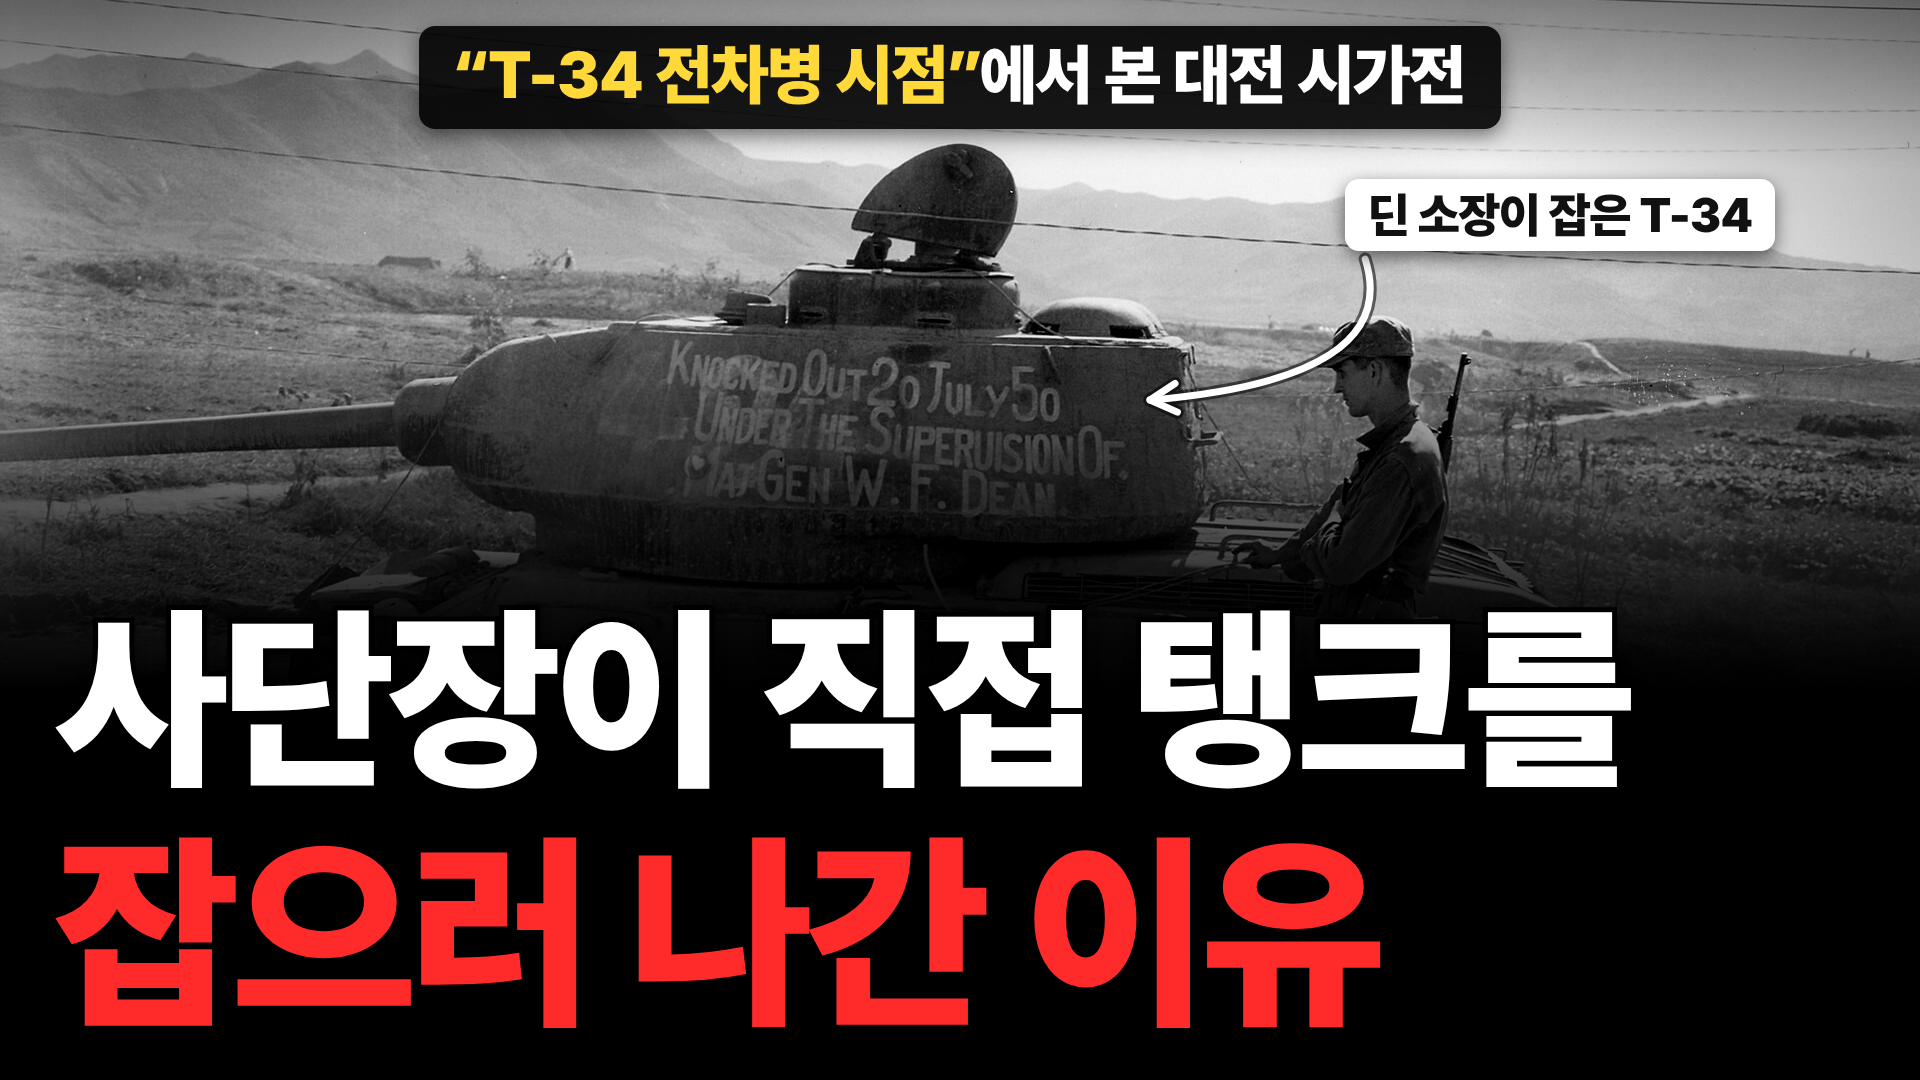
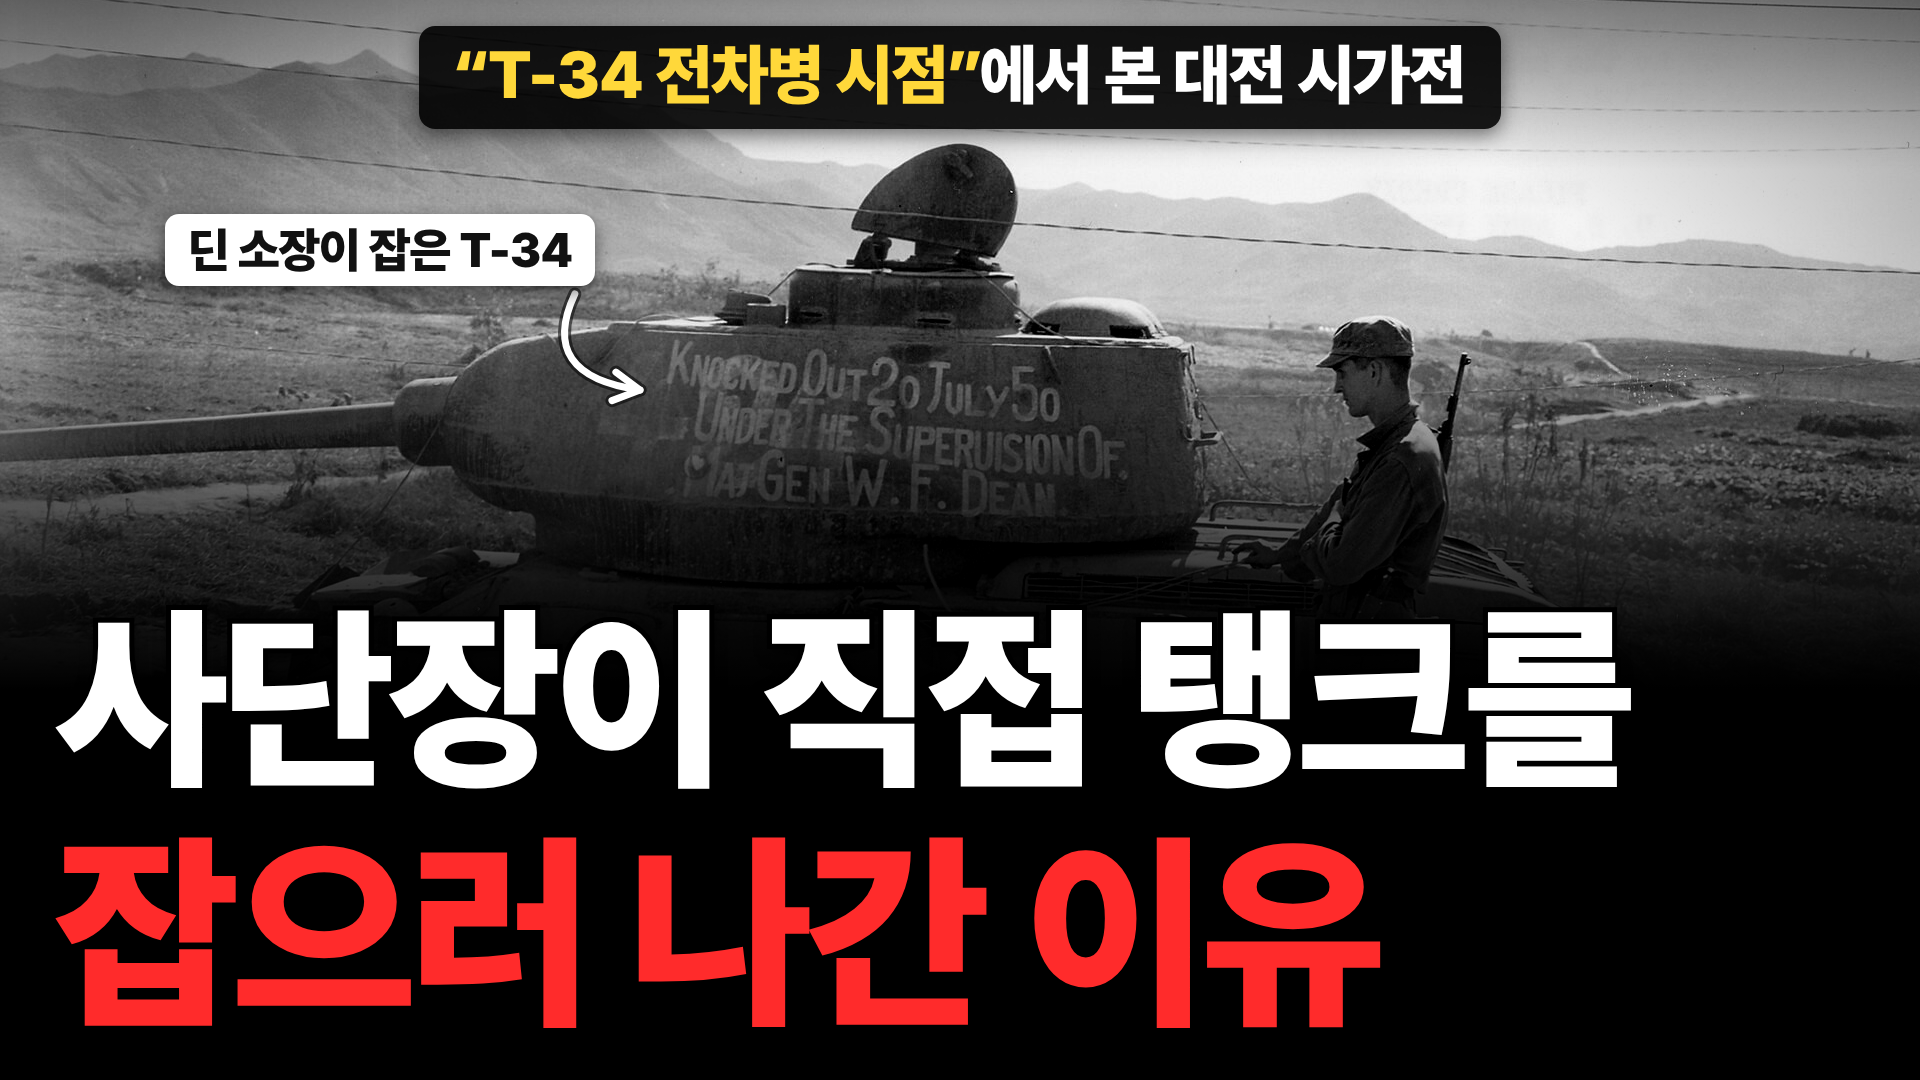
썸네일 v3: 설명 라벨·화살표를 빈 공간으로 옮겨 사람을 가리지 않게
Claude-Session: https://claude.ai/code/session_01SkesRQ2QoHJhKCtKZoqRh3

Changed region(s): [[0.0625, 0.1833, 0.3438, 0.3972], [0.6875, 0.1528, 0.9375, 0.3361], [0.5938, 0.3361, 0.6875, 0.3972]]

diff --git a/remotion/Thumbnail.tsx b/remotion/Thumbnail.tsx
@@ -1495,7 +1495,7 @@ export const PAROHO_V2: Record<string, ThumbV2Props> = {
     top: "“T-34 전차병 시점”에서 본 대전 시가전",
     line1: "바주카도 튕겨낸 T-34가",
     line2: "장군 손에 사냥당한 이유",
-    note: { text: "딘 소장이 잡은 T-34", x: 1560, y: 215, to: [1150, 400] },
+    note: { text: "딘 소장이 잡은 T-34", x: 380, y: 250, to: [640, 390] },
     alt: { line1: "사단장이 직접 탱크를", line2: "잡으러 나간 이유" }, // ALTS:ep29-daejeon
   },
 };

diff --git a/CLAUDE.md b/CLAUDE.md
@@ -104,7 +104,7 @@
 - 화면 구성 (1920×1080)
   1. **배경 = 그 편 대본의 핵심 장면 사진, 전체 화면 흑백** (`gray` 기본 true). 사료 사진이 있으면 장면 사진을 그대로 지정 `bg: "ep/<ep>/photos/sNNN_photo_0.jpg"`(스카우트 핀으로 받은 사진 — 추가 비용 0), 없으면(고대 등) 재연 그림 `ep/<ep>/ai/thumb_bg.jpg`. 어두우면 `bgFilter`로 밝기 보정
   2. **최상단 가운데 검은 라운드 박스 한 줄 `top`** — “ ” 안은 노랑 `#FFD83A`, 나머지 흰색 (44~66px 자동)
-  3. **사진 설명 흰 라벨 + 휘어진 흰 화살표 `note`** `{text, x, y(라벨 중심), to:[x,y](가리킬 곳)}` — 라벨은 얼굴을 가리지 않게
+  3. **사진 설명 흰 라벨 + 휘어진 흰 화살표 `note`** `{text, x, y(라벨 중심), to:[x,y](가리킬 곳)}` — **라벨과 화살표는 사람(얼굴·몸) 위를 지나가지 않게**: 라벨은 하늘·안개·빈 땅 같은 빈 공간에 두고, 화살표는 짧게(200~350px) 빈 공간을 지나 대상의 가장자리를 가리킨다 (2026-11-18 사용자 수정)
   4. **하단 솔리드 블랙 바닥판**(사진이 위로 260px 페이드) 위 2줄 — Line 1 흰색(얇은 검정 외곽선) / Line 2 빨강 `#FF2B2B`
   5. **글자 크기**: 실측 글꼴 폭으로 좌우 56px 여백 안(1808px)을 꽉 채움. Line 2 상한 210px, Line 1 상한 200px·Line 2의 94% 이하, 최소 110px. **줄당 9~13자(띄어쓰기 포함)** 가 레퍼런스처럼 두 줄이 가로를 꽉 채우는 길이 — 짧으면 글자가 과하게 커지고 길면 작아짐
   6. **재생시간 배지 여백 없음, 시간 표시도 넣지 않음** (2026-11-18 사용자 지시)
